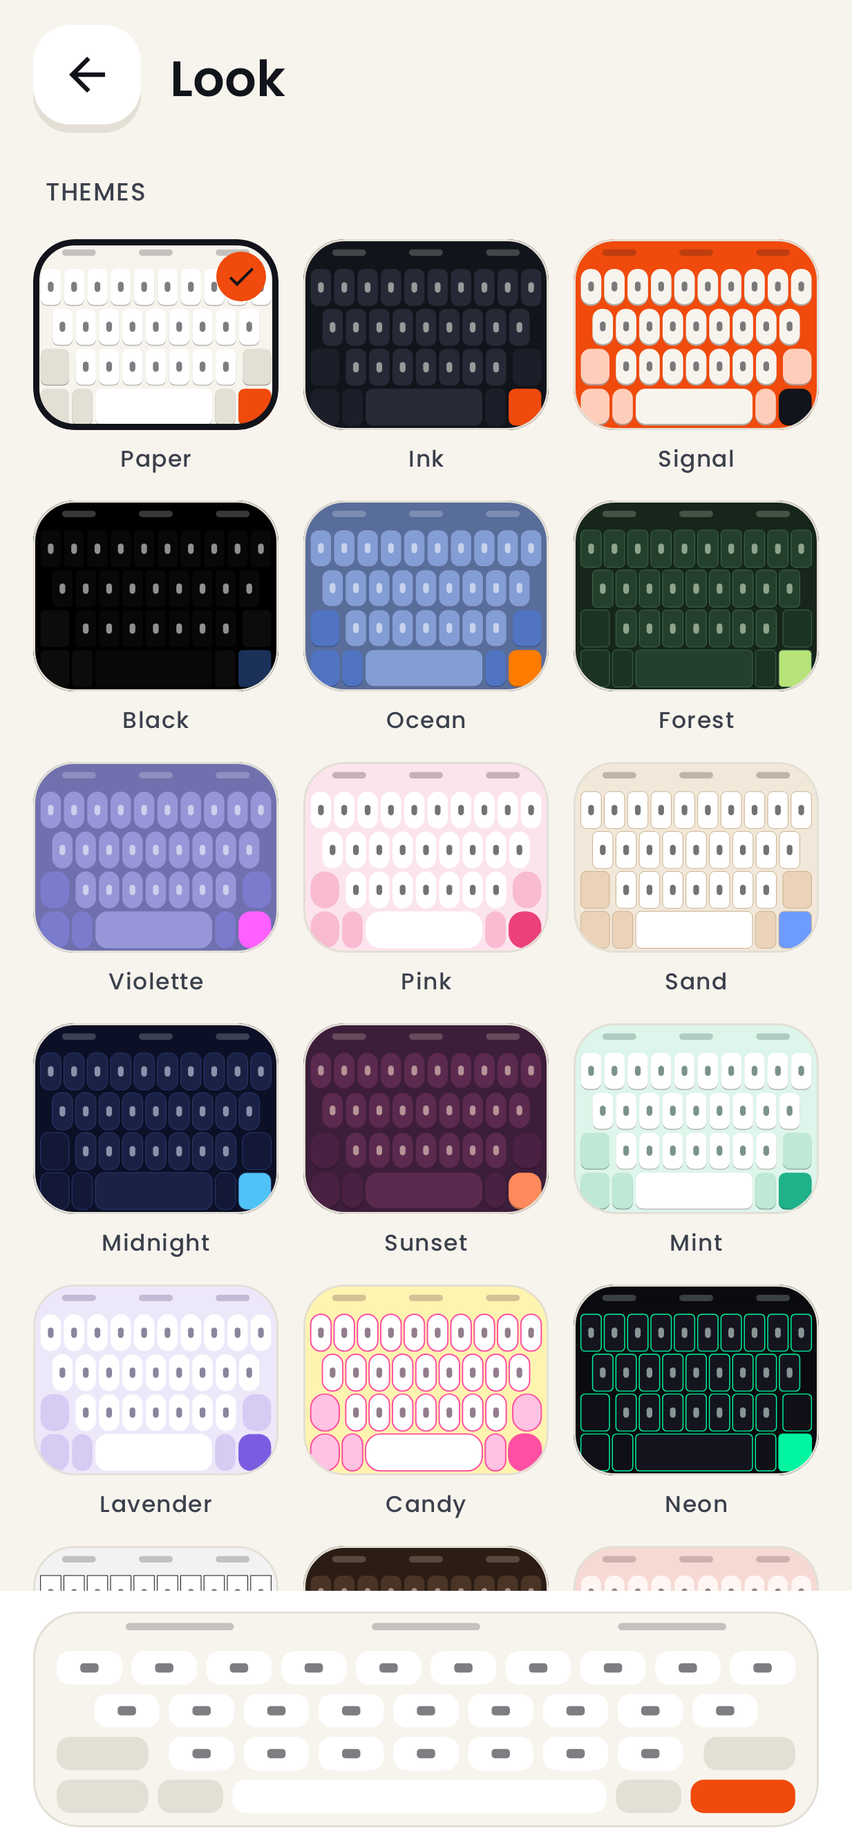
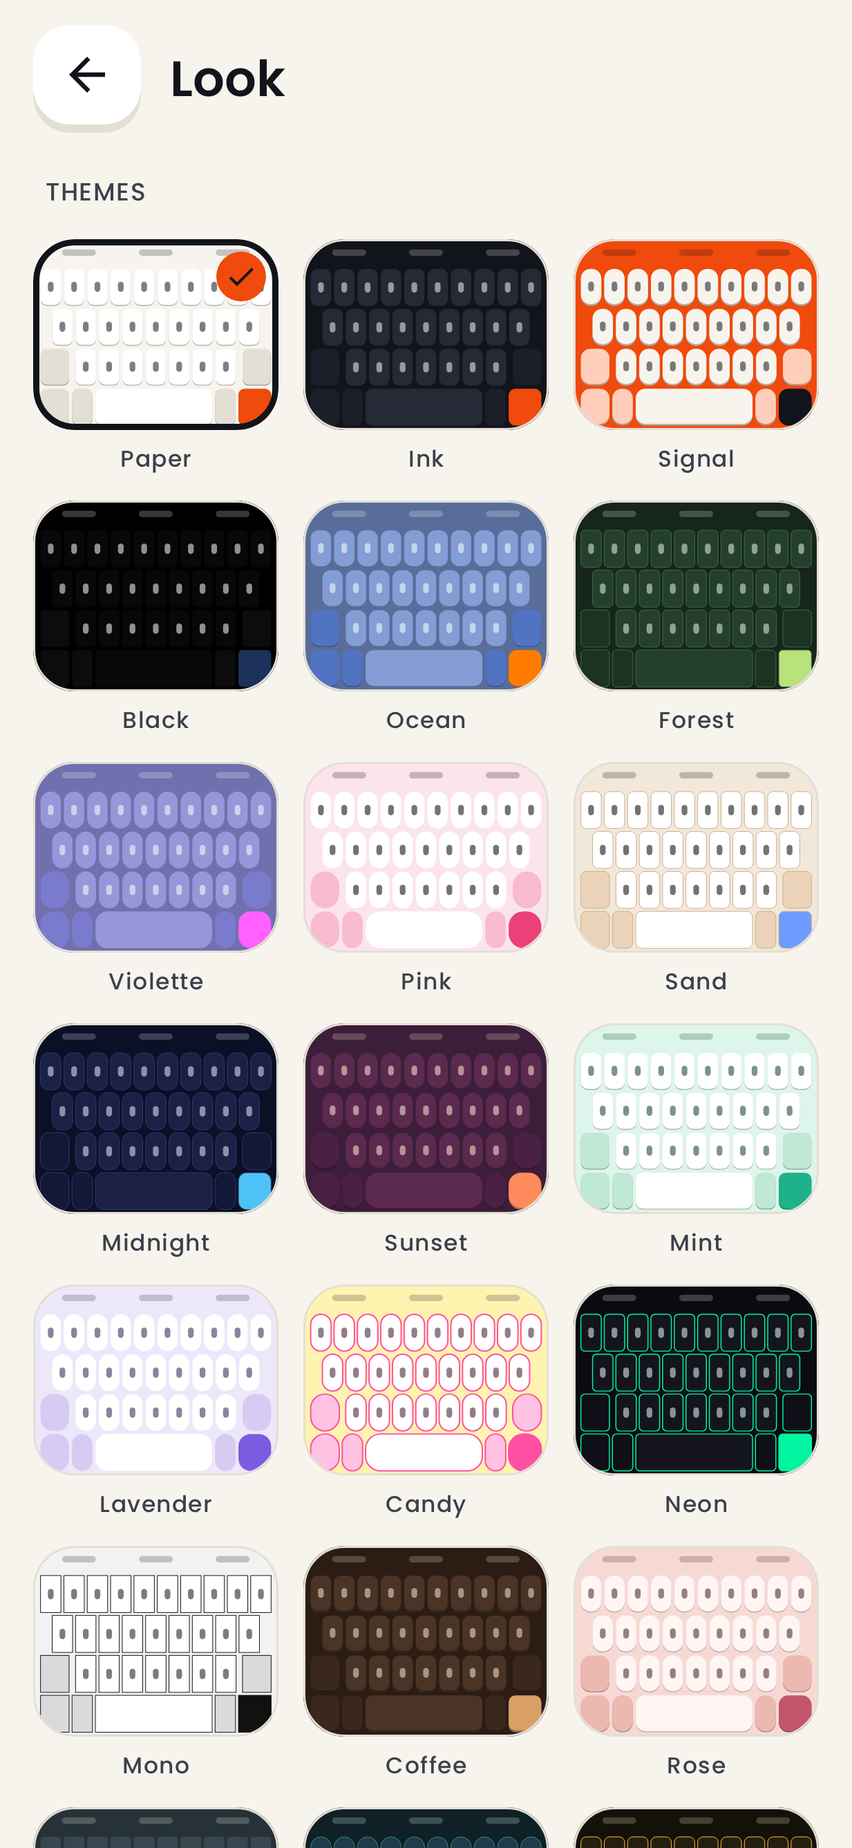
Rewrite README and contributing guide, refresh screenshots

Changed region(s): [[0.0308, 0.8384, 0.9862, 1.0]]

diff --git a/README.md b/README.md
@@ -1,93 +1,162 @@
 <h1 align="center">Pocketpen</h1>
 
-<p align="center"><b>A fast, private Android keyboard with a clipboard that remembers, AI writing tools, voice typing and handwriting.</b></p>
-
 <p align="center">
-  <a href="../../releases"><img alt="Beta" src="https://img.shields.io/badge/release-beta-F04A0C"></a>
-  <img alt="Android" src="https://img.shields.io/badge/Android-6.0%2B-12141B">
-  <img alt="License" src="https://img.shields.io/badge/license-GPL--3.0-3B404C">
+  <b>An open-source Android keyboard with a clipboard that remembers, built-in AI writing tools, voice typing and handwriting.</b>
 </p>
 
 <p align="center">
-  <img src="docs/screenshots/home.png" width="22%">
-  <img src="docs/screenshots/look.png" width="22%">
-  <img src="docs/screenshots/typing.png" width="22%">
-  <img src="docs/screenshots/voice.png" width="22%">
+  <a href="../../releases/latest"><img alt="Latest release" src="https://img.shields.io/github/v/release/TricretA/TriKey?include_prereleases&color=F04A0C&label=release"></a>
+  <img alt="Android 6.0+" src="https://img.shields.io/badge/Android-6.0%2B-12141B">
+  <a href="LICENSE"><img alt="License GPL-3.0" src="https://img.shields.io/badge/license-GPL--3.0-3B404C"></a>
+  <img alt="Status beta" src="https://img.shields.io/badge/status-beta-F04A0C">
 </p>
 
-Pocketpen is built on [HeliBoard](https://github.com/Helium314/HeliBoard), a proven open source typing engine, and adds what a daily keyboard should have: a clipboard you can trust, AI help when you want it, and settings you can understand at a glance.
+<p align="center">
+  <img src="docs/screenshots/home.png" width="22%" alt="Home">
+  <img src="docs/screenshots/look.png" width="22%" alt="Themes">
+  <img src="docs/screenshots/typing.png" width="22%" alt="Typing settings">
+  <img src="docs/screenshots/voice.png" width="22%" alt="Voice settings">
+</p>
 
-## Highlights
+---
+
+## Contents
+
+- [Overview](#overview)
+- [Features](#features)
+- [Installation](#installation)
+- [Privacy and security](#privacy-and-security)
+- [Building from source](#building-from-source)
+- [Project structure](#project-structure)
+- [Contributing](#contributing)
+- [Roadmap](#roadmap)
+- [License and acknowledgements](#license-and-acknowledgements)
+
+## Overview
+
+Pocketpen is a privacy-respecting keyboard for Android. It is a fork of [HeliBoard](https://github.com/Helium314/HeliBoard), which in turn builds on the Android Open Source Project keyboard. It keeps that mature typing engine (suggestions, autocorrect, dictionaries, many languages and layouts) and adds the tools a daily keyboard should have, with a settings experience designed to be understood at a glance.
+
+**Design principles**
+
+- **Simple.** Every setting is a title, a one-line explanation and a switch or a visual choice.
+- **Private.** No analytics, no telemetry. Network access happens only when you use a feature that needs it.
+- **Yours.** Bring your own AI provider and key. Your data stays on your device unless you ask otherwise.
+
+## Features
 
 ### Clipboard that remembers
-- History survives restarts. Keep it for 1 hour, 1 day, 7 days, 30 days, 90 days or forever.
-- **Screenshots appear instantly** as a suggestion above the keyboard and in the clipboard, like the best stock keyboards.
-- Recent items first, pinned items below, images in a tidy grid. Long-press for Pin, Paste or Delete. Swipe either way to delete.
-- A new-line key next to space makes pasting several items on separate lines easy.
-- Anything an app marks as sensitive, such as passwords and one-time codes, is never stored.
 
-<p align="center"><img src="docs/screenshots/clipboard.png" width="30%"></p>
+- History persists across restarts. Keep items for 1 hour, 1 day, 7 days, 30 days, 90 days or forever.
+- Screenshots appear instantly as a suggestion above the keyboard and in the clipboard.
+- Tabs for All, Recent, Pinned and Images. Text is laid out in two columns, images in a grid.
+- Long-press an item to pin, paste or delete it. Swipe to delete.
+- A new-line key next to the space bar makes pasting several items on separate lines easy.
+- Content that apps mark as sensitive, such as passwords and one-time codes, is never stored.
 
-### Gboard-style toolbar and tools panel
-- Tap the grid icon for a panel of tools: one-handed mode, text editing, floating keyboard, handwriting and more.
-- Tap the pencil to customize: hold and drag tools onto the toolbar, reorder them, or pin your mic button. No trip to Settings.
+<p align="center"><img src="docs/screenshots/clipboard.png" width="30%" alt="Clipboard"></p>
+
+### Toolbar and tools panel
+
+- The strip above the keyboard shows your toolbar when you are idle and word suggestions while you type, then switches back on its own.
+- Tap the grid icon to open a tools panel: text editing, one-handed mode, floating keyboard, resize, theme, AI model, handwriting and more, all without leaving the keyboard.
+- Customize in place: tap the pencil, then hold and drag tools onto the toolbar, reorder them, or pin your mic button. A snap line shows exactly where a tool will land.
 
 ### AI writing assistant
-- Select text, tap the AI key, and fix grammar, rewrite, shorten, expand, change tone, summarize, translate, reply, or tell the AI exactly what to do.
-- Copy, insert or replace with the result in one tap.
-- Bring your own key for **Claude, ChatGPT, OpenRouter, Groq or NVIDIA**. Pick a model, make one the default, switch any time.
-- Nothing is sent until you tap an action, and the panel is blocked in password fields.
 
-<p align="center"><img src="docs/screenshots/ai.png" width="30%"></p>
+- Select text and tap the AI key to fix grammar, rewrite, shorten, expand, change tone, summarize, translate, reply, or tell the AI exactly what to do.
+- Copy, insert or replace with the result in one tap.
+- Supports **Claude, ChatGPT, OpenRouter, Groq and NVIDIA**. Choose a model, set a default, switch at any time.
+- Nothing is sent until you tap an action. The assistant is disabled in password fields.
+
+<p align="center"><img src="docs/screenshots/ai.png" width="30%" alt="AI assistant"></p>
 
 ### Voice typing
-- Tap the mic and the status appears right in the toolbar: "Speak now", "Listening", with no pop-up.
-- Choose your phone's built-in recognizer or **Whisper by Groq** for higher accuracy. Offline? It switches to the built-in one automatically.
+
+- Tap the mic and the status appears in the toolbar: "Speak now", "Listening". There is no pop-up.
+- Use your phone's built-in recognizer, or **Whisper by Groq** for higher accuracy. When you are offline it falls back to the built-in recognizer automatically.
 
 ### Handwriting
-- Turn the keyboard into a canvas and write with a finger or stylus. Palm rejection included. Recognition runs on the phone.
 
-### Look the way you like
-- **21 distinct themes**, plus control over key height, text size, spacing, border thickness, color and roundness.
-- **Writing fonts**: pick the style of your key letters.
-- A live keyboard preview stays on screen while you change settings, so you always see what you are doing.
-- Choose from built-in key sounds or use your own audio file.
+- Turn the keyboard into a canvas and write with a finger or a stylus. Palm rejection is included, and recognition runs on the device. The canvas can be resized.
 
-<p align="center">
-  <img src="docs/screenshots/keyboard_paper.png" width="30%">
-  <img src="docs/screenshots/keyboard_ink.png" width="30%">
-  <img src="docs/screenshots/keyboard_signal.png" width="30%">
-</p>
+### Appearance
 
-### Simple settings
-Every setting is a title, a short explanation and a switch. No walls of text, no jargon. Technical options are tucked into collapsed sections.
+- 21 themes with distinct key shapes, plus control over key height, text size, spacing, border thickness, color and roundness.
+- More than 30 bundled fonts for the key labels.
+- **Writing styles** that turn what you type into Unicode styled letters (bold, script, fraktur, circled and more) so the style is preserved when the message is sent.
+- Built-in click sounds, or use your own sound file.
+- Open the floating keyboard button in settings to try changes on the real keyboard immediately.
 
 <p align="center">
-  <img src="docs/screenshots/write.png" width="22%">
-  <img src="docs/screenshots/more.png" width="22%">
+  <img src="docs/screenshots/keyboard_paper.png" width="30%" alt="Paper theme">
+  <img src="docs/screenshots/keyboard_ink.png" width="30%" alt="Ink theme">
+  <img src="docs/screenshots/keyboard_signal.png" width="30%" alt="Signal theme">
 </p>
 
-### Everything HeliBoard already does
-Suggestions and autocorrect, dictionaries, custom layouts, number row, one-handed mode, emoji, multiple languages.
+### Typing
 
-## Install
+- Word suggestions, autocorrect, next-word prediction and a personal dictionary that learns from you. Incognito mode stops learning on demand.
+- Everything inherited from HeliBoard: many languages and layouts, number row, one-handed mode, emoji and more.
 
-Grab the latest APK from the [Releases](../../releases) page and install it. Debug builds are signed with a fixed key, so a newer build installs over the older one.
+## Installation
 
-Enable Pocketpen under **Settings → System → Keyboard**, then follow the three-step setup when you open the app.
+1. Download the APK from the [latest release](../../releases/latest).
+2. Open it on your phone and allow installation from your browser or file manager if asked.
+3. Open Pocketpen. The setup guides you through enabling and selecting the keyboard.
 
-## Privacy
+Requires Android 6.0 (API 23) or newer. The application id is `com.pocketpen.keyboard`.
 
-No analytics and no telemetry. The network is used only when you use the AI assistant, Groq voice typing, or the one-time handwriting model download. API keys are encrypted with the Android Keystore and kept out of backups.
+Pre-release builds from the latest commit are published as the `latest` pre-release.
 
-## Status
+## Privacy and security
 
-Beta. Each build is compiled and checked by GitHub Actions; features are still being tested on real devices. Feedback is welcome through issues.
+- No analytics and no telemetry.
+- The network is used only for the AI assistant, Groq voice typing and the one-time download of the handwriting model, and only when you use those features.
+- AI keys are encrypted with the Android Keystore and excluded from backups.
+- Voice recordings are deleted from the device right after transcription.
+- Password fields are protected: AI, voice and writing styles are disabled in them.
 
-## Build
+Please report security issues privately through GitHub's security advisories for this repository.
 
-Builds run on GitHub Actions. Every push to `main` publishes a test APK. See [docs/BUILDING.md](docs/BUILDING.md) and [docs/MASTER_SPEC.md](docs/MASTER_SPEC.md).
+## Building from source
 
-## License and credits
+Requirements: JDK 21 and the Android SDK (the Gradle wrapper handles the rest).
 
-GPL-3.0. Pocketpen is a fork of [HeliBoard](https://github.com/Helium314/HeliBoard), which builds on the Android Open Source Project keyboard. Bundled fonts are under the SIL Open Font License (Roboto Slab under Apache 2.0). Provider logos belong to their owners.
+```bash
+./gradlew assembleDebug
+./gradlew assembleRelease
+```
+
+Outputs are written to `app/build/outputs/apk/`. Continuous integration builds every push, and tagged releases are built by the `Release` workflow. See [docs/BUILDING.md](docs/BUILDING.md) for details.
+
+## Project structure
+
+| Path | Contents |
+| --- | --- |
+| `app/src/main/java/helium314/keyboard/` | Keyboard engine and Pocketpen features (the `helium314` package name is kept to make upstream merges easy) |
+| `.../ai/` | AI providers, prompts and the assistant panel |
+| `.../voice/` | Voice typing and the Groq Whisper client |
+| `.../clipboardplus/`, `.../keyboard/clipboard/` | Clipboard storage, screenshot capture and views |
+| `.../toolspanel/` | Tools panel and toolbar editor |
+| `.../settings/` | Compose settings app |
+| `tools/logo-anim/` | Remotion project that renders the intro animation |
+| `docs/` | Specification and build notes |
+
+## Contributing
+
+Issues and pull requests are welcome. Please read [CONTRIBUTING.md](CONTRIBUTING.md) first. Keep changes focused, match the style of the surrounding code and describe how you tested them.
+
+## Roadmap
+
+- Wider device testing and stabilization of the beta.
+- Smarter next-word prediction.
+- More tools in the tools panel (GIF and sticker search are deliberately out of scope for now).
+- Release signing with a private key.
+
+See [docs/MASTER_SPEC.md](docs/MASTER_SPEC.md) for scope and decisions.
+
+## License and acknowledgements
+
+Pocketpen is licensed under the [GNU General Public License v3.0](LICENSE).
+
+It is built on [HeliBoard](https://github.com/Helium314/HeliBoard) and the Android Open Source Project keyboard, and uses ML Kit Digital Ink Recognition for handwriting. Bundled fonts are licensed under the SIL Open Font License, except Roboto Slab (Apache 2.0). Provider logos belong to their respective owners.

diff --git a/CONTRIBUTING.md b/CONTRIBUTING.md
@@ -1,102 +1,30 @@
-# NOTICE
+# Contributing to Pocketpen
 
-**Currently it's not possible to open PRs. This is because I want to deal with existing PRs before migrating to Codeberg (https://github.com/HeliBorg/HeliBoard/issues/378), and this doesn't work for me while new PRs are coming in.**
-Will re-open probably in (late) October or November.
+Thank you for your interest in Pocketpen.
 
-# Getting Started
+## Getting started
 
-HeliBoard project is based on Gradle and Android Gradle Plugin. To get started, you can install [Android Studio](https://developer.android.com/studio), and import project 'from Version Control / Git / Github' by providing this git repository [URL](https://github.com/HeliBorg/HeliBoard) (or git SSH [URL](git@github.com:Helium314/heliboard.git)).
-Of course you can also use any other compatible IDE, or work with text editor and command line.
-Once everything is up correctly, you're ready to go!
+1. Install JDK 21 and the Android SDK, or open the project in Android Studio.
+2. Build with `./gradlew assembleDebug`.
+3. Install the APK from `app/build/outputs/apk/debug/` and enable the keyboard in system settings.
 
-If you have difficulties implementing some functionality, you're welcome to ask for help. No one will write the code for you, but often other contributors can give you very useful hints.
+## Guidelines
 
-# About the Code
+- Keep pull requests small and focused on one change.
+- Match the style of the surrounding code. The Kotlin package name stays `helium314.*` so upstream HeliBoard changes remain easy to merge.
+- New settings follow the existing pattern: a title, a one-line plain description and a switch or simple choice.
+- Do not add analytics, tracking or network calls that run without the user triggering a feature.
+- Describe how you tested your change, including the device and Android version.
 
-HeliBoard is based on AOSP keyboard, and in many places still contains mostly the original code. There are some extensions, and some parts have been replaced completely.
-When working on this app, you will likely notice its rather large size, and quite different code styles and often ancient comments and _TODO_s, where the latter are typically untouched since AOSP times.
-Unfortunately a lot of the old code is hard to read or to fully understand with all of its intended (and unintended) consequences.
+## Reporting issues
 
-Some hints for finding what you're looking for:
-* Layouts: stored in `layouts` folder in assets, interpreted by `KeyboardParser` and `TextKeyData`
-  * Popups: either on layouts, or in `locale_key_texts` (mostly letter variations for specific languages that are not dependent on layout)
-* Touch and swipe input handling: `PointerTracker`
-* Handling of keycode / text inputs: `InputLogic`
-  * chain: `PointerTracker` -> `KeyboardActionListenerImpl` -> `LatinIME` -> `InputLogic`
-* Suggestions: `DictionaryFacilitatorImpl`, `Suggest`, `InputLogic`, and `SuggestionStripView` (in order from creation to display, omitting the native library)
-* Communication with the app / text field (inputs, reading current text): `RichInputConnection`
-* Receiving events and information from the app / text field: `LatinIME`
-* Settings are in `SettingsValues`, with some functionality in `Settings` and the default values in `Default`
+Open an issue with the app version, your Android version, the app you were typing in and steps to reproduce. For security issues, use GitHub's private security advisories instead of a public issue.
 
-# Guidelines
+## Where to look
 
-Note that the maintainer only has very limited time, and thus review might take a while.
-This especially applies to large PRs (hundreds of lines), which recently started to become more common. Sorry, but there is simply not enough time to review everything.  
-What's more likely to be reviewed soon:
-* Simple changes (but depends on what effect they have, as in some places it's easy to introduce unintended changes)
-* Wanted / accepted changes (labels [_PR_](https://github.com/HeliBorg/HeliBoard/labels/PR), [_contributor needed_](https://github.com/HeliBorg/HeliBoard/issues?q=label%3A%22contributor%20needed%22), [_help wanted_](https://github.com/HeliBorg/HeliBoard/labels/help%20wanted))
-* Changes where the hard work is mostly investigation / research rather than coding
-  * e.g. compiling text lists to dictionaries, customizable icons / key backgrounds, OnePlus disabling keyboard on reboot, ...
+- Keyboard layouts: `app/src/main/assets/layouts`
+- Typing input handling: `InputLogic`
+- Settings screens: `app/src/main/java/helium314/keyboard/settings`
+- AI, voice and clipboard features: the `ai`, `voice`, `clipboardplus` and `keyboard/clipboard` packages
 
-What will likely take some time (depends very much on how much other stuff is coming in):
-* Large changes (especially when connected to rather niche functionality)
-* Changes in code that is prone to introducing unintended effects
-  * `InputLogic`, `Suggest`, `RichInputConnection` are especially dangerous here, and also hard to test (behavior may depend on app and possibly OS version)
-
-## Recommended
-
-If you want to contribute, it's a good idea to make sure your idea is actually wanted in HeliBoard.
-Best check related issues before you start working on a PR. If the issue has the [labels](https://github.com/HeliBorg/HeliBoard/labels) [_PR_](https://github.com/HeliBorg/HeliBoard/labels/PR) or [_contributor needed_](https://github.com/HeliBorg/HeliBoard/issues?q=label%3A%22contributor%20needed%22) (even closed ones), contributions are wanted. If you don't find a related issue, it's recommended to open one, but ultimately it's your choice.
-Asking before starting a PR may help you for getting pointers to potentially relevant code, and deciding how to implement your desired changes.
-
-HeliBoard is a complex application and used by users with a large variety of opinions on how things should be.
-When contributing to the app, please:
-* Be careful when modifying core components, as it's easy to trigger unintended consequences
-* When introducing a feature or change that might not be wanted by everyone, make it optional
-* Keep code simple where possible. Complex code is harder to review and to maintain, so the complexity should also add a clear benefit
-* Avoid noticeable performance impact. Some parts of the code are executed very frequently, and the keyboard should stay responsive even on older devices.
-* Try making use of in-place mechanisms instead of re-inventing the wheel. Your contribution should only add as much complexity as necessary, the code is overly complicated already 😶.
-* Keep your changes to few places, as opposed to sprinkling them over many parts of the code. This helps with keeping down complexity during review, and with maintainability of the app.
-* Make a draft PR when you intend to still work on it. Submitting an unfinished PR can be a good idea when you're not sure how to best continue and would like some comments.
-* When you fix a bug without opening an issue, please provide a way to reproduce the bug (see [bug report template](.github/ISSUE_TEMPLATE/bug_report.md))
-* Noticeable adjustments (keyboard UI, default layouts, ...) should either provide a benefit for everyone, or be optional.
-* If your contribution contains code that is not your own, provide a link to the source
-  * This is especially relevant to be sure the code's license is compatible to HeliBoard's GPL3
-  * Note that with LLM generated PRs you might add code with an incompatible license. Better make sure the LLM you're using is trained only with GPL3 compatible code.
-
-Further things to consider (though irrelevant for most PRs):
-* APK size:
-  * Large increases should be discussed first, and will only be added when it's considered worth the increase for a majority of users. It might be possible to avoid size increase by importing optional parts, like it's done for dictionaries.
-  * Small increases like when adding code or layouts are never an issue
-* Do not add proprietary code or binary blobs. If it turns out to be necessary for a feature you want to add, it might be acceptable when the user opts in and imports those parts, like it's done for glide typing.
-* Privacy: Only relevant when adding some form of communication with other apps. Internet permission will not be added.
-
-## Necessary
-
-Some parts of the guidelines are necessary to fulfill for facilitating code review. It doesn't need to be perfect from the start, but consider it for your future PRs when you're reminded of these guidelines. Note that the larger / more complex your PR is, the more relevant these guidelines are.
-Your PR should:
-- **Be only about a single thing**. Mixing unrelated or semi-related contributions into a single PR is hard to review and can get messy. As a general rule: if one part doesn't need the other one(s), it should be separate PRs. If one feature builds on top of another one, but the base is usable on its own, do a PR for the base and then a follow-up once it's merged.
-- **Have a proper description**. A good description helps _a lot_ for understanding what you intend to achieve with the changes, and for understanding the code. This is relevant for separating wanted from unintended changes in behavior during review.
-- **Not contain translations**. Translations should be done using [Weblate](https://translate.codeberg.org/projects/heliboard/). Exception is when you add new resource strings, those can be added right away.
-- **Not be LLM generated**. LLMs enable contributors to quickly generate code that often is bulky and contains parts that are hard to understand. When the you do not understand the code, it's not possible to discuss such parts. See also [AI_USAGE.md](AI_USAGE.md).
-- **Not contain LLM generated discussion / description**. LLMs typically generate verbose and useless descriptions. Please save us some time and write it yourself, otherwise actual discussion is impossible.
-
-Please leave dependency upgrades to the maintainers, unless you state a good reason why they should be done now.
-
-# Adding / Adjusting Layouts
-
-See [layouts.md](layouts.md#adding-new-layouts--languages) for how to add new layouts to the app. Please stay in line with other layouts regarding the popup keys.
-
-When editing existing layouts, please consider that people should should still get what they're used to. In case of doubt it might be better to add a new layout instead of overhauling existing layouts.
-`locale_key_texts` files should only contain letters that are actually part of the language, with exception of the optional `more_popups_<...>.txt` files.
-
-# Update Emojis
-
-See make-emoji-keys tool [README](tools/make-emoji-keys/README.md).
-
-# Translations
-Translations can be added using [Weblate](https://translate.codeberg.org/projects/heliboard/). You will need an account to update translations and add languages. Add the language you want to translate to in Languages -> Manage translated languages in the top menu bar.
-Updating translations in a PR will not be accepted, as it may cause conflicts with Weblate translations.
-
-# Dictionaries
-No new dictionaries will be added to this app. Please submit dictionaries and the wordlist to the [dictionaries repository](https://codeberg.org/Helium314/aosp-dictionaries)
+By contributing you agree that your work is licensed under GPL-3.0.
